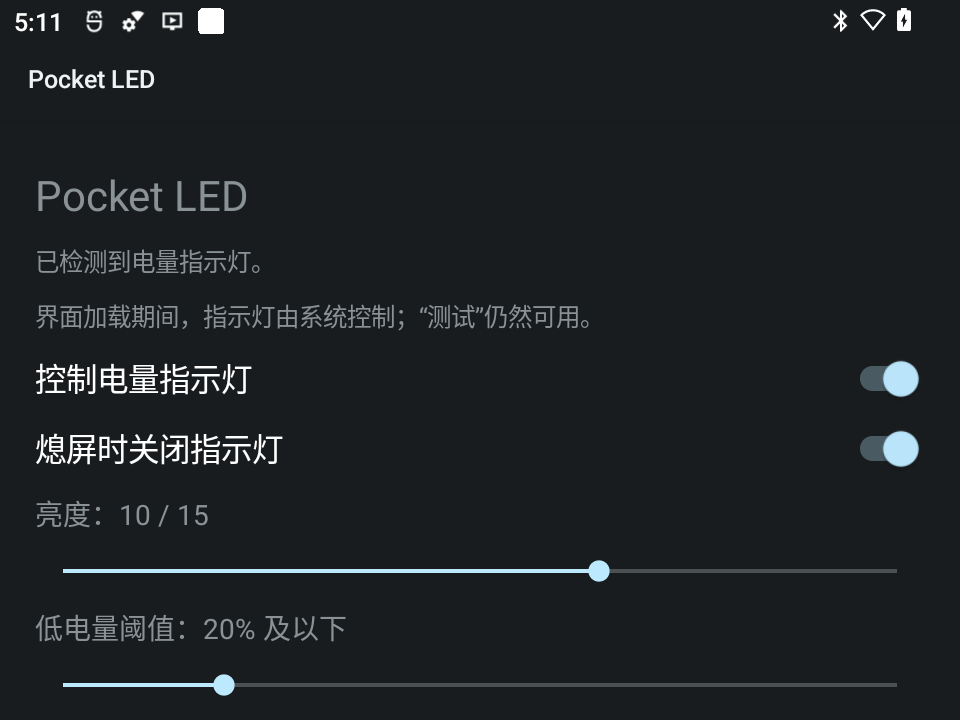
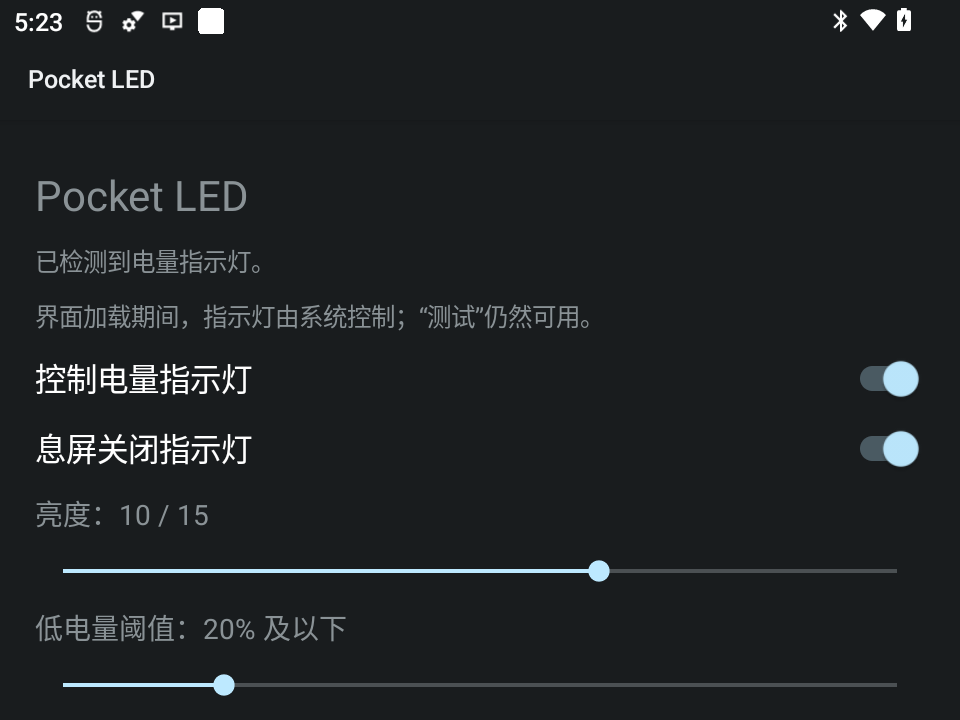
发布 1.5.2 汉化版：开关文案改为「息屏关闭指示灯」，版本号 1.5.1 -> 1.5.2 / 7 -> 8
- DEX 仅改这一条字符串，重新打包 + v2 签名，APK 14521 字节
- README / CHANGELOG / 汉化说明同步，截图换成 1.5.2 真机截图
- 删除旧的 PocketLED-1.5.1-zh.apk（产物改名为 1.5.2）

diff --git a/tools/patch_feature.py b/tools/patch_feature.py
@@ -34,7 +34,7 @@ HND = 'Landroid/os/Handler;'
 RUN = 'Ljava/lang/Runnable;'
 LED = 'Lcom/pocketblock/led/Led;'
 
-TEXT_LABEL = '熄屏时关闭指示灯'
+TEXT_LABEL = '息屏关闭指示灯'
 KEY = 'screenOff'
 POWER = 'power'
 

diff --git a/docs/汉化说明.md b/docs/汉化说明.md
@@ -1,27 +1,27 @@
-# Pocket LED 1.5.1 汉化 + 熄屏关灯说明
+# Pocket LED 1.5.2 汉化 + 息屏关灯说明
 
-产物：`PocketLED-1.5.1-zh.apk`（14,522 字节）
[1 lines of base64/hex data omitted]
-版本：`versionName=1.5.1` / `versionCode=7`（上游 `v1.5` 为 `1.5` / `6`）
+产物：`PocketLED-1.5.2-zh.apk`（14,521 字节）
[1 lines of base64/hex data omitted]
+版本：`versionName=1.5.2` / `versionCode=8`（上游 `v1.5` 为 `1.5` / `6`）
 
-已在 Android 12 真机（960×720）上覆盖安装、启动、逐屏核对，并实测熄屏关灯行为。
+已在 Android 12 真机（960×720）上覆盖安装、启动、逐屏核对，并实测息屏关灯行为。
 
-本版 = 汉化 + **新增「熄屏时关闭指示灯」开关** + **版本号升到 1.5.1 / 7**（见下）。
+本版 = 汉化 + **新增「息屏关闭指示灯」开关** + **版本号升到 1.5.2 / 8**（见下）。
 
 ## 安装前必读
 
 - **从上游原版转过来必须先卸载**（包名同为 `com.pocketblock.led`，但签名不同，无法覆盖安装）。
   卸载会清掉原版保存的设置（亮度、配色、阈值）。
-- **从本仓库的 1.5-zh 升级则直接覆盖安装**：两者用同一把自签证书，`adb install -r` 保留全部设置。
+- **从本仓库的 1.5-zh / 1.5.1-zh 升级则直接覆盖安装**：同一把自签证书，`adb install -r` 保留全部设置。
 - 系统要求：Android 8.0（API 26）及以上；APK 用 **v2 签名**（targetSdk 31 必需）。
 - 安装时若提示「应用未经检测 / 未知来源」，选择仍要安装即可。
 - 若装完后闪退，看 `adb logcat` 是否有 `Failed to verify dex file` —— 说明系统在强校验 DEX。
   本版已按 ART 规则重排字符串表，正常情况下不会出现。
 
-## 新增功能：熄屏时关闭指示灯
+## 新增功能：息屏关闭指示灯
 
 原版在屏幕息屏 / 休眠后仍会不断写 LED，灯一直亮着。本版在「控制电量指示灯」下面加了一行
-开关「熄屏时关闭指示灯」：
+开关「息屏关闭指示灯」：
 
 - **开**：屏幕熄灭（含掌机休眠）后指示灯立即熄灭，屏幕重新点亮后自动恢复原来的颜色 / 亮度 / 闪烁。
 - **关**：行为和原版一致（息屏也保持常亮）。
@@ -32,27 +32,38 @@ SHA-256：`61CCD04BAF657A708E5827A53DD2947748C2A33F826FE085D1894607D5237DE3`
 若开关打开且屏幕不可交互，则改为 `Led.off()` 并只保留 1 秒后的续期调度，
 不写颜色寄存器 —— 因此息屏期间不会反复点亮。
 
+> 1.5.2 只改了这行开关的文案（「熄屏时关闭指示灯」→「息屏关闭指示灯」），行为与 1.5.1 完全一致。
+
 新增 / 改动的成员：
 
 | 类 | 成员 |
 |---|---|
 | `Config` | `screenOff()Z`、`setScreenOff(Z)V`（`SharedPreferences` 读写） |
-| `LedService` | `screenOn()Z`（`PowerManager` 查询）、`tick()` 前置判断与熄屏尾块 |
+| `LedService` | `screenOn()Z`（`PowerManager` 查询）、`tick()` 前置判断与息屏尾块 |
 | `MainActivity` | `screenOffRow()V`（新开关行）、`onCheckedChanged(...)` 分支、`onCreate` 插入一行 |
 
-## 版本号：1.5 → 1.5.1 / 6 → 7
+## 版本号：1.5 → 1.5.2 / 6 → 8
 
 `versionName` 和 `versionCode` 都在二进制 `AndroidManifest.xml`（AXML）里，不是 `resources.arsc`，
 所以不需要动资源表，但也不能当纯文本改：
 
-- `versionName="1.5"` 是 AXML **string pool** 里的字面量；长度从 3 变 5，改完必须重算
+- `versionName` 是 AXML **string pool** 里的字面量（原值 `1.5`）；长度一变，就必须重算
   string pool 的 offsets 数组、`stringsStart`、pool chunk size 和整个 AXML 的 header size。
-- `versionCode="6"` 是 `<manifest>` 元素上的 **int 属性**（资源 ID `0x0101021b`），
+- `versionCode` 是 `<manifest>` 元素上的 **int 属性**（资源 ID `0x0101021b`），
   直接改那 4 字节数据即可，元素内的字符串索引不变。
 
 `tools/bump_version.py` 只重建开头那个 pool（保留原 `utf-8/utf-16` 编码与 style 段），其余 chunk 原样后移。
-**往返测试**：`1.5` → `1.5.1` → `1.5`（code `6` → `7` → `6`）后与原文件 SHA-256 完全相同，说明读写是无损的。
-改完 `AndroidManifest.xml` 3180 → 3184 字节，APK 14,882 → 14,522 字节（DEX 也因新功能变化）。
+**往返测试**：`1.5` → `1.5.1` → `1.5`（code `6` → `7` → `6`）改两遍后与原文件 SHA-256 完全相同，
+说明读写是无损的；1.5.2 / 8 用的是同一条路径、同一个脚本，只换了参数。
+`AndroidManifest.xml` 由 3180 → 3184 字节（只多了两个字符）。
+
+各版本的产物大小：
+
+| 版本 | versionName / code | APK 大小 |
+|---|---|---|
+| 1.5（仅汉化） | 1.5 / 6 | 14,882 字节 |
+| 1.5.1（+ 息屏关灯） | 1.5.1 / 7 | 14,522 字节 |
+| 1.5.2（改开关文案） | 1.5.2 / 8 | 14,521 字节 |
 
 ## 改了什么
 
@@ -76,10 +87,10 @@ SHA-256：`61CCD04BAF657A708E5827A53DD2947748C2A33F826FE085D1894607D5237DE3`
 | 颜色名 | Blanco, Apagado, Verde, Rojo, Naranja, Amarillo, Cian, Azul, Violeta | 白色、关闭、绿色、红色、橙色、黄色、青色、蓝色、紫色 |
 | 通知渠道 | Control del LED | 指示灯控制 |
 | 通知内容 | Pocket LED activo / Controlando el LED de batería | 正在运行 / 正在控制电量指示灯 |
-| 新增开关 | — | 熄屏时关闭指示灯 |
+| 新增开关 | — | 息屏关闭指示灯 |
 
 「LED」作为通用缩写保留未译。未改动：图标、主题、布局、`resources.arsc`、`res/` 下的矢量图、
-包名、权限、组件、逻辑（熄屏关灯是**新增**分支，原逻辑保留）。
+包名、权限、组件、逻辑（息屏关灯是**新增**分支，原逻辑保留）。
 
 ## 技术做法（无 apktool / 无 Android SDK / 无 java / 无外网）
 
@@ -125,7 +136,7 @@ SHA-256：`61CCD04BAF657A708E5827A53DD2947748C2A33F826FE085D1894607D5237DE3`
 
 - `reindex.py`：字符串重排 + 全量索引重写（汉化用），自带升序自检
 - `dexlib.py` / `dexbuild.py`：DEX 解析、反汇编、汇编、整文件重建
-- `patch_feature.py`：在汉化 DEX 上追加「熄屏时关闭指示灯」（含字节码插入与索引 remap）
+- `patch_feature.py`：在汉化 DEX 上追加「息屏关闭指示灯」（含字节码插入与索引 remap）
 - `bump_version.py`：重写 AXML 的 `versionName` / `versionCode`，往返无损
 - `cmpenc.py` / `cmpbytes.py`：编码结果与原文逐字节 / 整文件比对；`roundtrip.py`：语义往返
 - `validate.py`：寄存器与索引边界检查；`dump2.py`：带操作数的反汇编

diff --git a/README.md b/README.md
@@ -1,4 +1,4 @@
-# Pocket LED 1.5.1 · 汉化版 + 熄屏关灯
+# Pocket LED 1.5.2 · 汉化版 + 熄屏关灯
 
 把西班牙语的安卓掌机电池指示灯工具 **Pocket LED** 汉化为简体中文，并在汉化基础上新增一个原版没有的功能：
 **熄屏 / 休眠时自动关闭指示灯**。
@@ -6,25 +6,25 @@
 > 上游：[Ninoh-FOX/led-control](https://github.com/Ninoh-FOX/led-control) `v1.5`（包名 `com.pocketblock.led`，targetSdk 31，minSdk 26 → Android 8.0+）
 > 本仓库是**非官方**汉化，与原作者无关，不含原作者源码。
 
-**当前版本：1.5.1**（`versionName=1.5.1` / `versionCode=7`）——版本号已与上游 `1.5 / 6` 区分开，
+**当前版本：1.5.2**（`versionName=1.5.2` / `versionCode=8`）——版本号已与上游 `1.5 / 6` 区分开，
 装过一次旧版的话可以直接覆盖升级。更新内容见 [CHANGELOG.md](CHANGELOG.md)。
 
 ## 下载
 
 | 文件 | 大小 | SHA-256 |
 |---|---|---|
[2 lines of base64/hex data omitted]
 
 也可以从 [Releases](../../releases/latest) 取同一份文件。
 
 ## 功能
 
 - 全界面中文化：开关、阈值、色块名、按钮、通知栏、状态提示
-- **新增开关「熄屏时关闭指示灯」**
+- **新增开关「息屏关闭指示灯」**
   - 打开：屏幕熄灭（含掌机休眠）后指示灯立刻熄灭，点亮屏幕后自动恢复原颜色 / 亮度 / 闪烁
   - 关闭：与原版一致，息屏也常亮
   - 设置持久化在 `SharedPreferences`（文件 `led`，键 `screenOff`）
-- 应用名、图标、包名、权限、组件均保持原样；**版本号改为 1.5.1 / 7**（唯一一处与原版不同的元数据）
+- 应用名、图标、包名、权限、组件均保持原样；**版本号改为 1.5.2 / 8**（唯一一处与原版不同的元数据）
 
 ## 截图
 
@@ -38,10 +38,10 @@
 
 ```bash
 adb uninstall com.pocketblock.led      # 只有从「原版」转过来才需要：签名不同，无法覆盖装
-adb install PocketLED-1.5.1-zh.apk
+adb install PocketLED-1.5.2-zh.apk
 ```
 
-- **从本仓库的旧版（1.5-zh）升级**：签名相同，直接 `adb install -r` 或点开新 APK 覆盖安装，
+- **从本仓库的旧版（1.5-zh / 1.5.1-zh）升级**：签名相同，直接 `adb install -r` 或点开新 APK 覆盖安装，
   亮度 / 配色 / 阈值设置都会保留。
 - **从上游原版转过来**：必须先卸载原版，卸载会清空它保存的设置。
 - 系统要求 Android 8.0（API 26）及以上；APK 使用 **APK Signature Scheme v2** 自签名（RSA-2048，自签证书）。
@@ -85,13 +85,13 @@ adb install PocketLED-1.5.1-zh.apk
 
 - 编码器与原文 **83/83 个方法逐字节一致**
 - `verify_apk.py` → `ALL CHECKS PASSED`（内容摘要重算、RSA 验签、zip CRC、arsc 对齐全部通过）
-- 真机（Android 12 / arm64）实测：覆盖安装、启动、切开关、息屏、亮屏恢复均正常
+- 真机（Android 12 / arm64）实测：覆盖安装后 `versionName=1.5.2` / `versionCode=8`，启动、切开关、息屏、亮屏恢复均正常
 - `AndroidManifest.xml` 的版本号改写做了往返测试：`1.5` → `1.5.1` → `1.5` 后与原文件**逐字节相同**
 
 ## 目录
 
 ```
-PocketLED-1.5.1-zh.apk   成品（汉化 + 熄屏关灯，1.5.1 / 7）
+PocketLED-1.5.2-zh.apk   成品（汉化 + 息屏关灯，1.5.2 / 8）
 CHANGELOG.md             版本更新记录
 docs/汉化说明.md          完整改动对照表、技术做法、踩坑记录
 screenshots/             真机截图

diff --git a/CHANGELOG.md b/CHANGELOG.md
@@ -3,6 +3,15 @@
 版本号规则：`1.5.x-zh` ↔ `versionName=1.5.x` / `versionCode=6+x`。
 上游 `v1.5` 是 `1.5 / 6`，本仓库从 `1.5.1 / 7` 起，**版本号不与上游重合**，装过旧版可直接覆盖升级。
 
+## 1.5.2 — 2026-11-15
+
+- **新开关改名为「息屏关闭指示灯」**（1.5.1 里叫「熄屏时关闭指示灯」），措辞与系统「息屏」叫法统一，字数也更短
+- 版本号 `1.5.1` → `1.5.2`、`versionCode 7` → `8`，可与上一版直接覆盖安装
+- DEX 只改了这一条字符串：其余 29 条译文、365 条字符串表、201 个方法的字节码均未变动
+  （部分 `const-string` 的索引因字符串表重排而平移）
+- 重新打包 + v2 签名；APK 14,522 → 14,521 字节
+- 真机覆盖安装实测：`versionName=1.5.2` / `versionCode=8`
+
 ## 1.5.1 — 2026-11-15
 
 - **新增功能：熄屏时关闭指示灯**（原版没有）
